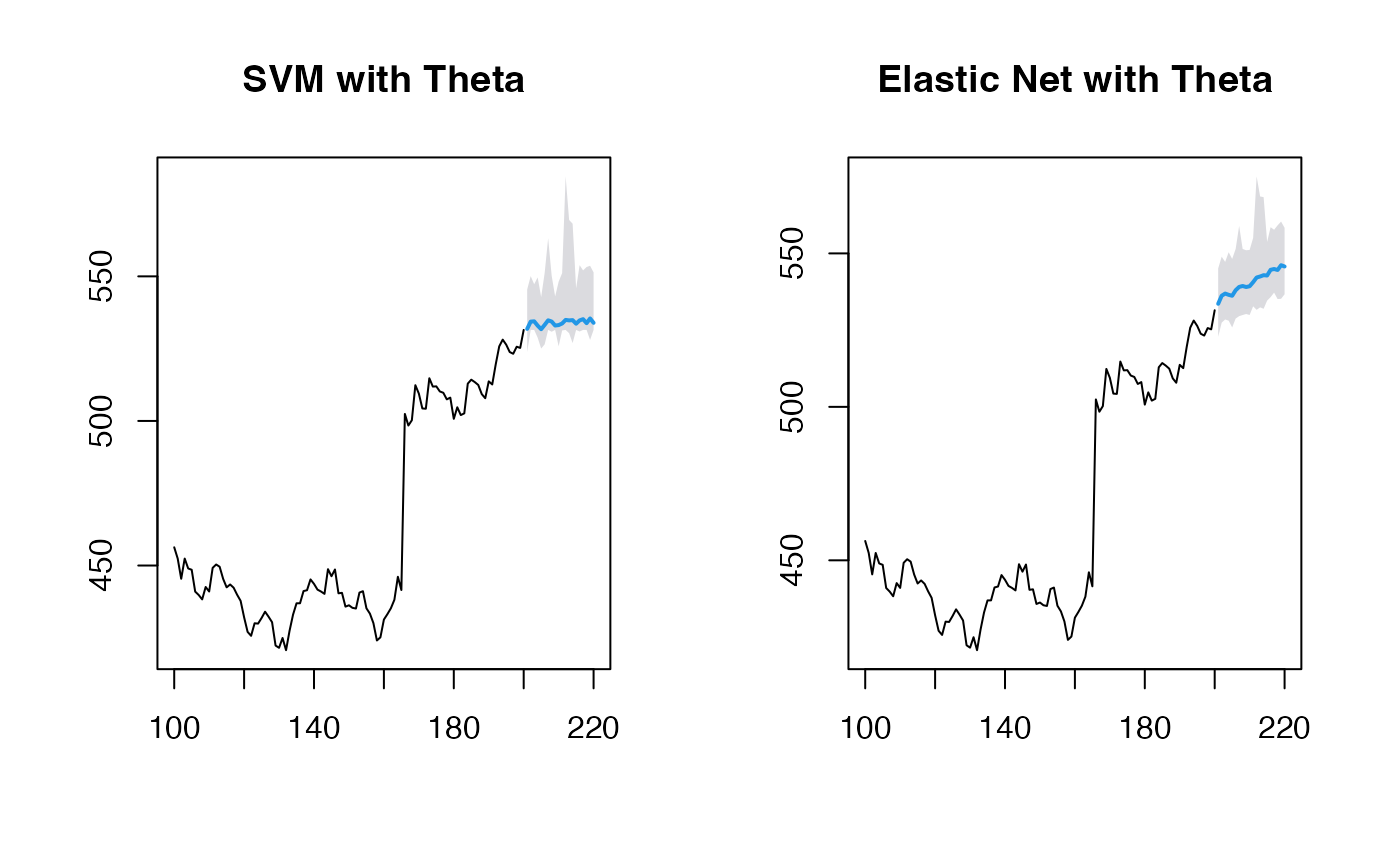
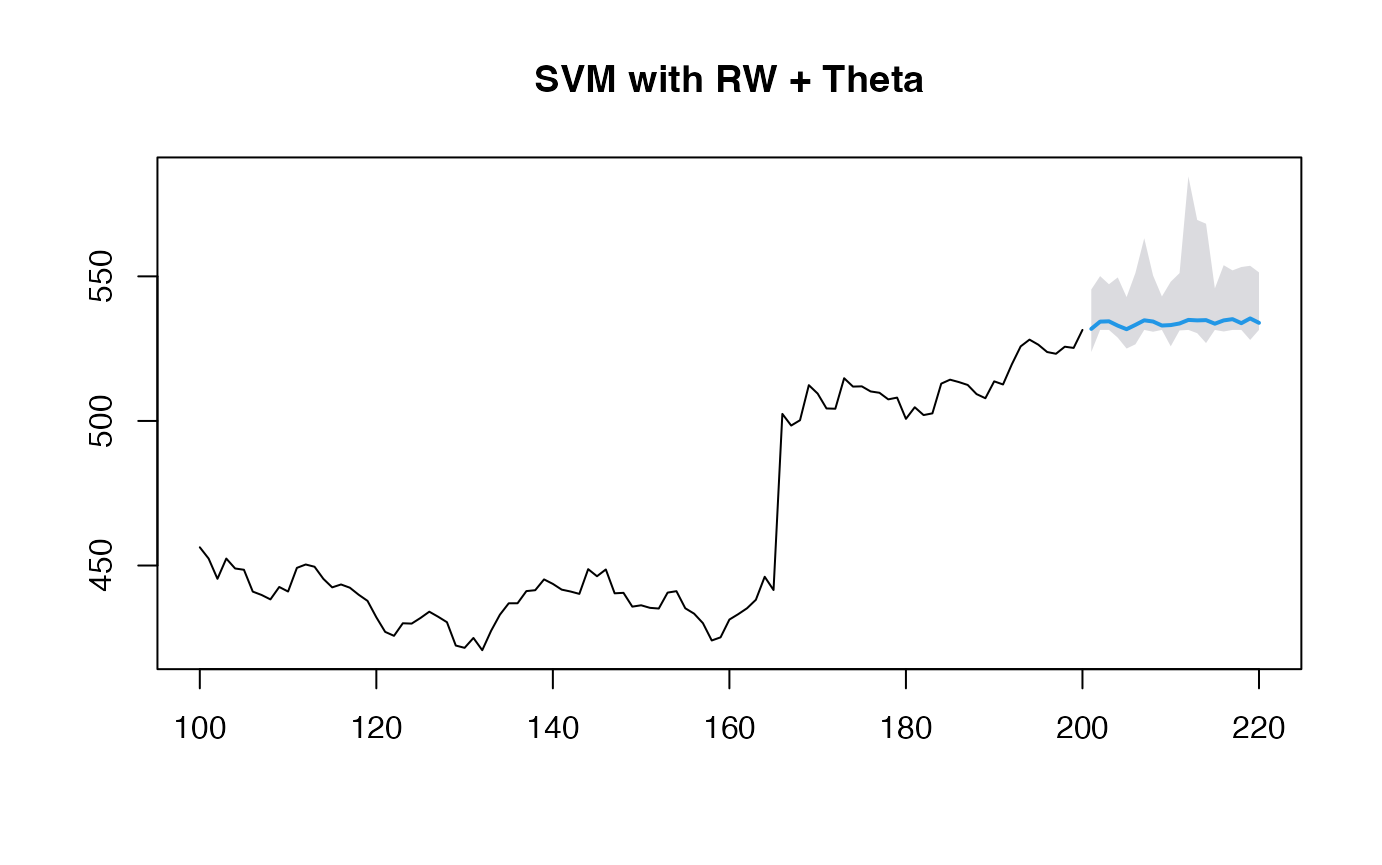
update ahead with ml-arch docs Pt.2

diff --git a/ahead/articles/mlarch.html b/ahead/articles/mlarch.html
@@ -32,7 +32,7 @@
       </button>
       <span class="navbar-brand">
         <a class="navbar-link" href="../index.html">ahead</a>
-        <span class="version label label-default" data-toggle="tooltip" data-placement="bottom" title="">0.18.3</span>
+        <span class="version label label-default" data-toggle="tooltip" data-placement="bottom" title="">0.19.0</span>
       </span>
     </div>
 
@@ -389,7 +389,7 @@ how to use them:</p>
 <p>You can also customize both the mean forecasting model and the model
 for forecasting standardized residuals:</p>
 <div class="sourceCode" id="cb17"><pre class="downlit sourceCode r">
-<code class="sourceCode R"><span><span class="co"># Using Theta method for both mean and residuals</span></span>
+<code class="sourceCode R"><span><span class="co"># Using RW + Theta method for mean and residuals along with SVM for volatility</span></span>
 <span><span class="op">(</span><span class="va">obj_svm</span> <span class="op">&lt;-</span> <span class="fu">ahead</span><span class="fu">::</span><span class="fu"><a href="../reference/mlarchf.html">mlarchf</a></span><span class="op">(</span><span class="va">y</span>, fit_func <span class="op">=</span> <span class="fu">e1071</span><span class="fu">::</span><span class="va"><a href="https://rdrr.io/pkg/e1071/man/svm.html" class="external-link">svm</a></span>, </span>
 <span>                     predict_func <span class="op">=</span> <span class="va">predict</span>, h<span class="op">=</span><span class="fl">20L</span>, </span>
 <span>                     mean_model<span class="op">=</span><span class="fu">forecast</span><span class="fu">::</span><span class="va"><a href="https://pkg.robjhyndman.com/forecast/reference/naive.html" class="external-link">rwf</a></span>,</span>
@@ -416,7 +416,8 @@ for forecasting standardized residuals:</p>
 <span><span class="co">## 219       535.4485 528.0107 553.6618</span></span>
 <span><span class="co">## 220       533.9270 531.4783 551.3710</span></span></code></pre>
 <div class="sourceCode" id="cb19"><pre class="downlit sourceCode r">
-<code class="sourceCode R"><span><span class="op">(</span><span class="va">obj_glmnet</span> <span class="op">&lt;-</span> <span class="fu">ahead</span><span class="fu">::</span><span class="fu"><a href="../reference/mlarchf.html">mlarchf</a></span><span class="op">(</span><span class="va">y</span>, fit_func <span class="op">=</span> <span class="fu">glmnet</span><span class="fu">::</span><span class="va"><a href="https://glmnet.stanford.edu/reference/cv.glmnet.html" class="external-link">cv.glmnet</a></span>, </span>
+<code class="sourceCode R"><span><span class="co"># Using Theta + Theta method for mean and residuals along with GLMNET for volatility</span></span>
+<span><span class="op">(</span><span class="va">obj_glmnet</span> <span class="op">&lt;-</span> <span class="fu">ahead</span><span class="fu">::</span><span class="fu"><a href="../reference/mlarchf.html">mlarchf</a></span><span class="op">(</span><span class="va">y</span>, fit_func <span class="op">=</span> <span class="fu">glmnet</span><span class="fu">::</span><span class="va"><a href="https://glmnet.stanford.edu/reference/cv.glmnet.html" class="external-link">cv.glmnet</a></span>, </span>
 <span>                     predict_func <span class="op">=</span> <span class="va">predict</span>, h<span class="op">=</span><span class="fl">20L</span>, </span>
 <span>                     mean_model<span class="op">=</span><span class="fu">forecast</span><span class="fu">::</span><span class="va"><a href="https://pkg.robjhyndman.com/forecast/reference/thetaf.html" class="external-link">thetaf</a></span>,</span>
 <span>                     model_residuals<span class="op">=</span><span class="fu">forecast</span><span class="fu">::</span><span class="va"><a href="https://pkg.robjhyndman.com/forecast/reference/thetaf.html" class="external-link">thetaf</a></span><span class="op">)</span><span class="op">)</span></span></code></pre></div>
@@ -442,13 +443,15 @@ for forecasting standardized residuals:</p>
 <span><span class="co">## 219       546.1549 535.2129 560.3674</span></span>
 <span><span class="co">## 220       545.7312 536.6801 558.3306</span></span></code></pre>
 <div class="sourceCode" id="cb21"><pre class="downlit sourceCode r">
-<code class="sourceCode R"><span><span class="fu"><a href="https://rdrr.io/r/graphics/par.html" class="external-link">par</a></span><span class="op">(</span>mfrow<span class="op">=</span><span class="fu"><a href="https://rdrr.io/r/base/c.html" class="external-link">c</a></span><span class="op">(</span><span class="fl">1</span>, <span class="fl">2</span><span class="op">)</span><span class="op">)</span></span>
-<span><span class="fu"><a href="https://rdrr.io/r/graphics/plot.default.html" class="external-link">plot</a></span><span class="op">(</span><span class="va">obj_svm</span>, main<span class="op">=</span><span class="st">"SVM with Theta"</span><span class="op">)</span></span>
-<span><span class="fu"><a href="https://rdrr.io/r/graphics/plot.default.html" class="external-link">plot</a></span><span class="op">(</span><span class="va">obj_glmnet</span>, main<span class="op">=</span><span class="st">"Elastic Net with Theta"</span><span class="op">)</span></span></code></pre></div>
+<code class="sourceCode R"><span><span class="fu"><a href="https://rdrr.io/r/graphics/plot.default.html" class="external-link">plot</a></span><span class="op">(</span><span class="va">obj_svm</span>, main<span class="op">=</span><span class="st">"SVM with RW + Theta"</span><span class="op">)</span></span></code></pre></div>
 <p><img src="mlarch_files/figure-html/plot_custom-1.png" width="691.2"></p>
-<p>When using non-ARIMA models for the mean forecast, it’s important to
-check if the residuals are centered and stationary:</p>
 <div class="sourceCode" id="cb22"><pre class="downlit sourceCode r">
+<code class="sourceCode R"><span><span class="fu"><a href="https://rdrr.io/r/graphics/plot.default.html" class="external-link">plot</a></span><span class="op">(</span><span class="va">obj_glmnet</span>, main<span class="op">=</span><span class="st">"Elastic Net with Theta + Theta"</span><span class="op">)</span></span></code></pre></div>
+<p><img src="mlarch_files/figure-html/plot_custom-2.png" width="691.2"></p>
+<p>When using non-ARIMA models for the mean forecast, it’s important to
+check if the residuals of the mean forecasting model are centered and
+stationary:</p>
+<div class="sourceCode" id="cb23"><pre class="downlit sourceCode r">
 <code class="sourceCode R"><span><span class="co"># Diagnostic tests for residuals</span></span>
 <span><span class="fu"><a href="https://rdrr.io/r/base/print.html" class="external-link">print</a></span><span class="op">(</span><span class="va">obj_svm</span><span class="op">$</span><span class="va">resids_t_test</span><span class="op">)</span></span></code></pre></div>
 <pre><code><span><span class="co">## </span></span>
@@ -462,14 +465,14 @@ check if the residuals are centered and stationary:</p>
 <span><span class="co">## sample estimates:</span></span>
 <span><span class="co">## mean of x </span></span>
 <span><span class="co">## 0.7517111</span></span></code></pre>
-<div class="sourceCode" id="cb24"><pre class="downlit sourceCode r">
+<div class="sourceCode" id="cb25"><pre class="downlit sourceCode r">
 <code class="sourceCode R"><span><span class="fu"><a href="https://rdrr.io/r/base/print.html" class="external-link">print</a></span><span class="op">(</span><span class="va">obj_svm</span><span class="op">$</span><span class="va">resids_kpss_test</span><span class="op">)</span></span></code></pre></div>
 <pre><code><span><span class="co">## </span></span>
 <span><span class="co">##  KPSS Test for Level Stationarity</span></span>
 <span><span class="co">## </span></span>
 <span><span class="co">## data:  resids</span></span>
-<span><span class="co">## KPSS Level = 5.6618e-230, Truncation lag parameter = 4, p-value = 0.1</span></span></code></pre>
-<div class="sourceCode" id="cb26"><pre class="downlit sourceCode r">
+<span><span class="co">## KPSS Level = -5.6618e-230, Truncation lag parameter = 4, p-value = 0.1</span></span></code></pre>
+<div class="sourceCode" id="cb27"><pre class="downlit sourceCode r">
 <code class="sourceCode R"><span><span class="fu"><a href="https://rdrr.io/r/base/print.html" class="external-link">print</a></span><span class="op">(</span><span class="va">obj_glmnet</span><span class="op">$</span><span class="va">resids_t_test</span><span class="op">)</span></span></code></pre></div>
 <pre><code><span><span class="co">## </span></span>
 <span><span class="co">##  One Sample t-test</span></span>
@@ -482,7 +485,7 @@ check if the residuals are centered and stationary:</p>
 <span><span class="co">## sample estimates:</span></span>
 <span><span class="co">## mean of x </span></span>
 <span><span class="co">## 0.8026479</span></span></code></pre>
-<div class="sourceCode" id="cb28"><pre class="downlit sourceCode r">
+<div class="sourceCode" id="cb29"><pre class="downlit sourceCode r">
 <code class="sourceCode R"><span><span class="fu"><a href="https://rdrr.io/r/base/print.html" class="external-link">print</a></span><span class="op">(</span><span class="va">obj_glmnet</span><span class="op">$</span><span class="va">resids_kpss_test</span><span class="op">)</span></span></code></pre></div>
 <pre><code><span><span class="co">## </span></span>
 <span><span class="co">##  KPSS Test for Level Stationarity</span></span>

diff --git a/ahead/articles/comb_OLS.html b/ahead/articles/comb_OLS.html
@@ -32,7 +32,7 @@
       </button>
       <span class="navbar-brand">
         <a class="navbar-link" href="../index.html">ahead</a>
-        <span class="version label label-default" data-toggle="tooltip" data-placement="bottom" title="">0.18.3</span>
+        <span class="version label label-default" data-toggle="tooltip" data-placement="bottom" title="">0.19.0</span>
       </span>
     </div>
 
@@ -172,7 +172,7 @@
 <div class="sourceCode" id="cb11"><pre class="downlit sourceCode r">
 <code class="sourceCode R"><span><span class="fu"><a href="https://rdrr.io/r/base/print.html" class="external-link">print</a></span><span class="op">(</span><span class="fu"><a href="https://rdrr.io/r/base/proc.time.html" class="external-link">proc.time</a></span><span class="op">(</span><span class="op">)</span><span class="op">[</span><span class="fl">3</span><span class="op">]</span> <span class="op">-</span> <span class="va">start</span><span class="op">)</span></span></code></pre></div>
 <pre><code><span><span class="co">## elapsed </span></span>
-<span><span class="co">##   0.053</span></span></code></pre>
+<span><span class="co">##   0.174</span></span></code></pre>
 <div class="sourceCode" id="cb13"><pre class="downlit sourceCode r">
 <code class="sourceCode R"><span><span class="fu"><a href="https://rdrr.io/r/base/print.html" class="external-link">print</a></span><span class="op">(</span><span class="fu"><a href="https://rdrr.io/r/base/class.html" class="external-link">class</a></span><span class="op">(</span><span class="va">obj</span><span class="op">)</span><span class="op">)</span></span></code></pre></div>
 <pre><code><span><span class="co">## [1] "foreccomb_res" "comb_OLS"</span></span></code></pre>
@@ -198,7 +198,7 @@
 <span><span class="va">obj</span> <span class="op">&lt;-</span> <span class="fu">ahead</span><span class="fu">::</span><span class="fu"><a href="../reference/comb_Ridge.html">comb_Ridge</a></span><span class="op">(</span><span class="va">data</span><span class="op">)</span></span>
 <span><span class="fu"><a href="https://rdrr.io/r/base/print.html" class="external-link">print</a></span><span class="op">(</span><span class="fu"><a href="https://rdrr.io/r/base/proc.time.html" class="external-link">proc.time</a></span><span class="op">(</span><span class="op">)</span><span class="op">[</span><span class="fl">3</span><span class="op">]</span> <span class="op">-</span> <span class="va">start</span><span class="op">)</span></span></code></pre></div>
 <pre><code><span><span class="co">## elapsed </span></span>
-<span><span class="co">##   0.016</span></span></code></pre>
+<span><span class="co">##   0.055</span></span></code></pre>
 <div class="sourceCode" id="cb24"><pre class="downlit sourceCode r">
 <code class="sourceCode R"><span><span class="fu"><a href="https://rdrr.io/r/base/print.html" class="external-link">print</a></span><span class="op">(</span><span class="va">obj</span><span class="op">$</span><span class="va">Weights</span><span class="op">)</span></span></code></pre></div>
 <pre><code><span><span class="co">## [1]    95.81502  -582.80574   685.98452 -2745.54330  5530.43579</span></span></code></pre>

diff --git a/ahead/articles/comb_OLS2.html b/ahead/articles/comb_OLS2.html
@@ -32,7 +32,7 @@
       </button>
       <span class="navbar-brand">
         <a class="navbar-link" href="../index.html">ahead</a>
-        <span class="version label label-default" data-toggle="tooltip" data-placement="bottom" title="">0.18.3</span>
+        <span class="version label label-default" data-toggle="tooltip" data-placement="bottom" title="">0.19.0</span>
       </span>
     </div>
 
@@ -248,7 +248,7 @@
 <span><span class="va">obj</span> <span class="op">&lt;-</span> <span class="fu">ahead</span><span class="fu">::</span><span class="fu"><a href="../reference/comb_Ridge.html">comb_Ridge</a></span><span class="op">(</span><span class="va">data</span>, custom_error<span class="op">=</span><span class="va">custom_error</span><span class="op">)</span></span>
 <span><span class="fu"><a href="https://rdrr.io/r/base/print.html" class="external-link">print</a></span><span class="op">(</span><span class="fu"><a href="https://rdrr.io/r/base/proc.time.html" class="external-link">proc.time</a></span><span class="op">(</span><span class="op">)</span><span class="op">[</span><span class="fl">3</span><span class="op">]</span> <span class="op">-</span> <span class="va">start</span><span class="op">)</span></span></code></pre></div>
 <pre><code><span><span class="co">## elapsed </span></span>
-<span><span class="co">##   0.007</span></span></code></pre>
+<span><span class="co">##   0.003</span></span></code></pre>
 <div class="sourceCode" id="cb33"><pre class="downlit sourceCode r">
 <code class="sourceCode R"><span><span class="fu"><a href="https://rdrr.io/r/base/print.html" class="external-link">print</a></span><span class="op">(</span><span class="fu"><a href="https://rdrr.io/r/base/class.html" class="external-link">class</a></span><span class="op">(</span><span class="va">obj</span><span class="op">)</span><span class="op">)</span></span></code></pre></div>
 <pre><code><span><span class="co">## [1] "foreccomb_res" "comb_Ridge"</span></span></code></pre>

diff --git a/ahead/reference/comb_OLS.html b/ahead/reference/comb_OLS.html
@@ -17,7 +17,7 @@
       </button>
       <span class="navbar-brand">
         <a class="navbar-link" href="../index.html">ahead</a>
-        <span class="version label label-default" data-toggle="tooltip" data-placement="bottom" title="">0.18.3</span>
+        <span class="version label label-default" data-toggle="tooltip" data-placement="bottom" title="">0.19.0</span>
       </span>
     </div>
 
@@ -468,7 +468,7 @@ This issue is addressed by the <code><a href="https://rdrr.io/pkg/ForecastComb/m
 <span class="r-out co"><span class="r-pr">#&gt;</span>     coef &lt;- c(object$Intercept, object$Weights)</span>
 <span class="r-out co"><span class="r-pr">#&gt;</span>     return(drop(cbind(1, newpreds) %*% coef))</span>
 <span class="r-out co"><span class="r-pr">#&gt;</span> }</span>
-<span class="r-out co"><span class="r-pr">#&gt;</span> &lt;bytecode: 0x7fb1491bc988&gt;</span>
+<span class="r-out co"><span class="r-pr">#&gt;</span> &lt;bytecode: 0x7fa615358208&gt;</span>
 <span class="r-out co"><span class="r-pr">#&gt;</span> &lt;environment: namespace:ahead&gt;</span>
 <span class="r-out co"><span class="r-pr">#&gt;</span> </span>
 <span class="r-out co"><span class="r-pr">#&gt;</span> $Intercept</span>

diff --git a/ahead/reference/comb_Ridge.html b/ahead/reference/comb_Ridge.html
@@ -17,7 +17,7 @@
       </button>
       <span class="navbar-brand">
         <a class="navbar-link" href="../index.html">ahead</a>
-        <span class="version label label-default" data-toggle="tooltip" data-placement="bottom" title="">0.18.3</span>
+        <span class="version label label-default" data-toggle="tooltip" data-placement="bottom" title="">0.19.0</span>
       </span>
     </div>
 
@@ -456,7 +456,7 @@
 <span class="r-out co"><span class="r-pr">#&gt;</span> {</span>
 <span class="r-out co"><span class="r-pr">#&gt;</span>     return(predict(object$lin_model, newpreds))</span>
 <span class="r-out co"><span class="r-pr">#&gt;</span> }</span>
-<span class="r-out co"><span class="r-pr">#&gt;</span> &lt;bytecode: 0x7fb14ef14f58&gt;</span>
+<span class="r-out co"><span class="r-pr">#&gt;</span> &lt;bytecode: 0x7fa614afadf8&gt;</span>
 <span class="r-out co"><span class="r-pr">#&gt;</span> &lt;environment: namespace:ahead&gt;</span>
 <span class="r-out co"><span class="r-pr">#&gt;</span> </span>
 <span class="r-out co"><span class="r-pr">#&gt;</span> $Intercept</span>

diff --git a/ahead/news/index.html b/ahead/news/index.html
@@ -17,7 +17,7 @@
       </button>
       <span class="navbar-brand">
         <a class="navbar-link" href="../index.html">ahead</a>
-        <span class="version label label-default" data-toggle="tooltip" data-placement="bottom" title="">0.18.3</span>
+        <span class="version label label-default" data-toggle="tooltip" data-placement="bottom" title="">0.19.0</span>
       </span>
     </div>
 
@@ -102,6 +102,10 @@
 
     </div>
 
+    <div class="section level2">
+<h2 class="page-header" data-toc-text="0.18.0" id="version-0180">version 0.18.0<a class="anchor" aria-label="anchor" href="#version-0180"></a></h2>
+<ul><li>Add ML-ARCH model, see vignettes for more examples</li>
+</ul></div>
     <div class="section level2">
 <h2 class="page-header" data-toc-text="0.17.0" id="version-0170">version 0.17.0<a class="anchor" aria-label="anchor" href="#version-0170"></a></h2>
 <ul><li>Add conformal prediction to <code>ridge2f</code> (with KDE, bootstrap, block bootstrap and sequential split conformal prediction)</li>

diff --git a/ahead/authors.html b/ahead/authors.html
@@ -17,7 +17,7 @@
       </button>
       <span class="navbar-brand">
         <a class="navbar-link" href="index.html">ahead</a>
-        <span class="version label label-default" data-toggle="tooltip" data-placement="bottom" title="">0.18.3</span>
+        <span class="version label label-default" data-toggle="tooltip" data-placement="bottom" title="">0.19.0</span>
       </span>
     </div>
 
@@ -118,13 +118,13 @@
 
     <p>Moudiki T (2025).
 <em>ahead: Time Series Forecasting with uncertainty quantification</em>.
-R package version 0.18.3.
+R package version 0.19.0.
 </p>
     <pre>@Manual{,
   title = {ahead: Time Series Forecasting with uncertainty quantification},
   author = {T. Moudiki},
   year = {2025},
-  note = {R package version 0.18.3},
+  note = {R package version 0.19.0},
 }</pre>
 
   </div>

diff --git a/ahead/reference/eatf.html b/ahead/reference/eatf.html
@@ -18,7 +18,7 @@ forecast::auto.arima, forecast::thetaf)"><!-- mathjax --><script src="https://cd
       </button>
       <span class="navbar-brand">
         <a class="navbar-link" href="../index.html">ahead</a>
-        <span class="version label label-default" data-toggle="tooltip" data-placement="bottom" title="">0.18.3</span>
+        <span class="version label label-default" data-toggle="tooltip" data-placement="bottom" title="">0.19.0</span>
       </span>
     </div>
 

diff --git a/ahead/reference/predict.foreccomb_res.html b/ahead/reference/predict.foreccomb_res.html
@@ -18,7 +18,7 @@ result to predict the combination for a newly provided prediction dataset."><!--
       </button>
       <span class="navbar-brand">
         <a class="navbar-link" href="../index.html">ahead</a>
-        <span class="version label label-default" data-toggle="tooltip" data-placement="bottom" title="">0.18.3</span>
+        <span class="version label label-default" data-toggle="tooltip" data-placement="bottom" title="">0.19.0</span>
       </span>
     </div>
 

diff --git a/ahead/reference/summary.foreccomb_res.html b/ahead/reference/summary.foreccomb_res.html
@@ -19,7 +19,7 @@ forecast."><!-- mathjax --><script src="https://cdnjs.cloudflare.com/ajax/libs/m
       </button>
       <span class="navbar-brand">
         <a class="navbar-link" href="../index.html">ahead</a>
-        <span class="version label label-default" data-toggle="tooltip" data-placement="bottom" title="">0.18.3</span>
+        <span class="version label label-default" data-toggle="tooltip" data-placement="bottom" title="">0.19.0</span>
       </span>
     </div>
 

diff --git a/ahead/reference/plot.foreccomb_res.html b/ahead/reference/plot.foreccomb_res.html
@@ -19,7 +19,7 @@ an actual vs. fitted plot (which = 1) or a barplot of the combination weights
       </button>
       <span class="navbar-brand">
         <a class="navbar-link" href="../index.html">ahead</a>
-        <span class="version label label-default" data-toggle="tooltip" data-placement="bottom" title="">0.18.3</span>
+        <span class="version label label-default" data-toggle="tooltip" data-placement="bottom" title="">0.19.0</span>
       </span>
     </div>
 

diff --git a/ahead/articles/ahead-loess-forecasting.html b/ahead/articles/ahead-loess-forecasting.html
@@ -32,7 +32,7 @@
       </button>
       <span class="navbar-brand">
         <a class="navbar-link" href="../index.html">ahead</a>
-        <span class="version label label-default" data-toggle="tooltip" data-placement="bottom" title="">0.18.3</span>
+        <span class="version label label-default" data-toggle="tooltip" data-placement="bottom" title="">0.19.0</span>
       </span>
     </div>
 
